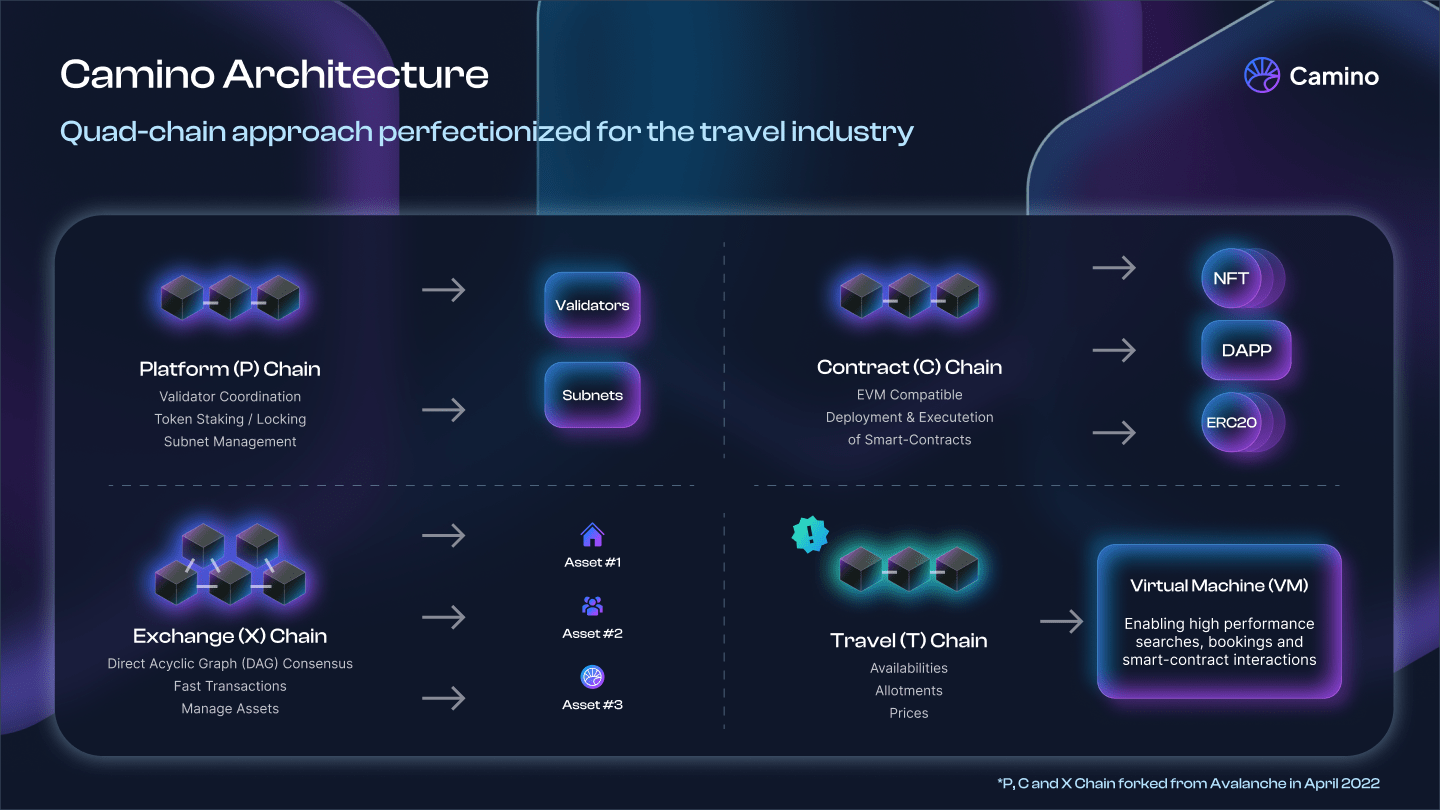
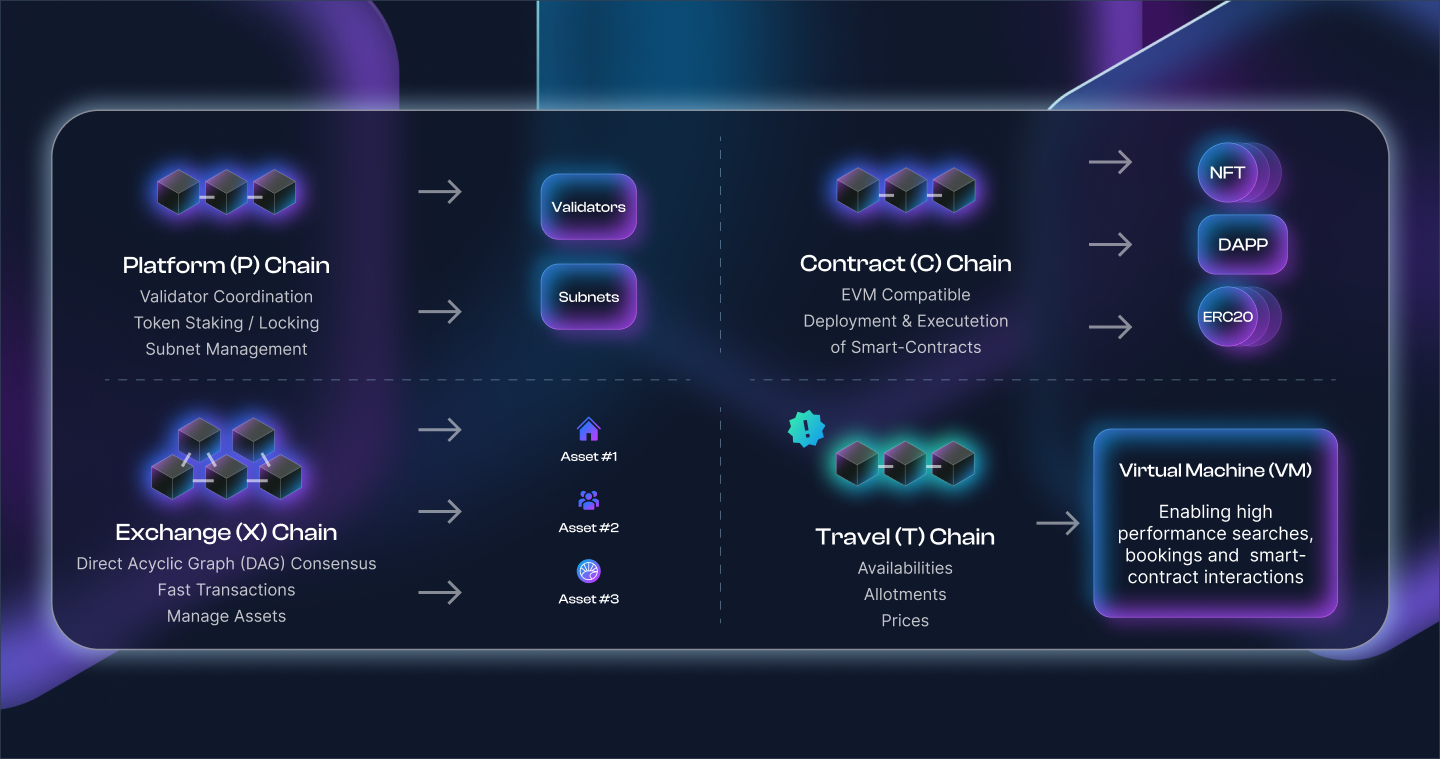
new image and date fixes

diff --git a/a-layer-1-blockchain-for-the-travel-industry-why-not.html b/a-layer-1-blockchain-for-the-travel-industry-why-not.html
@@ -7,7 +7,7 @@ socialImage: social_level1.png
 
 <section class="relative overflow-hidden mt-24 md:mt-12 py-12 md:py-32">
     <div class="container mx-auto flex flex-col items-center relative z-10 text-center max-w-5xl">
-        <div class="text-secondary uppercase text-sm font-bold tracking-widest text-center mb-4 lg:mb-8">Blog article - February 23, 2023</div>
+        <div class="text-secondary uppercase text-sm font-bold tracking-widest text-center mb-4 lg:mb-8">Blog article - March 29, 2023</div>
         <h1 class="lg:text-7xl text-3xl mb-8 font-bold text-white">
             A Layer 1 blockchain for the travel industry - Why (not)?
         </h1>
